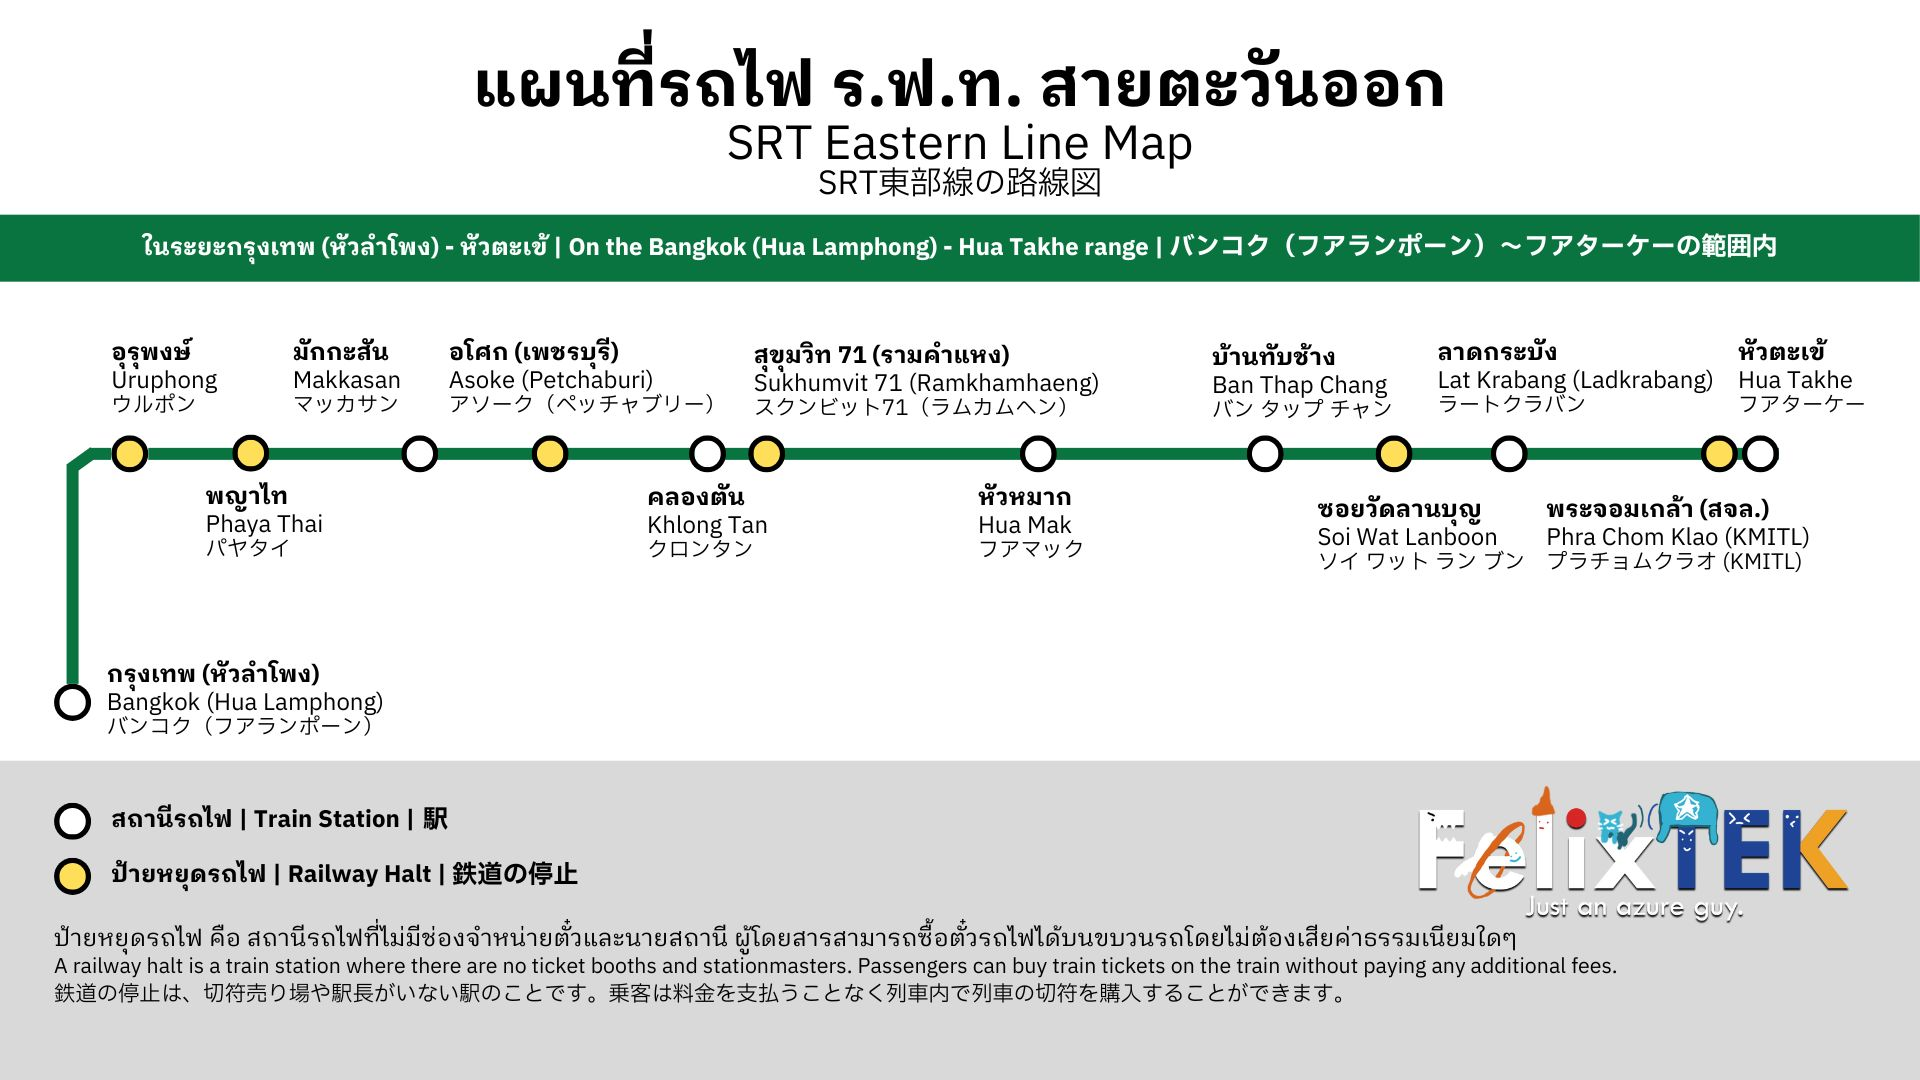
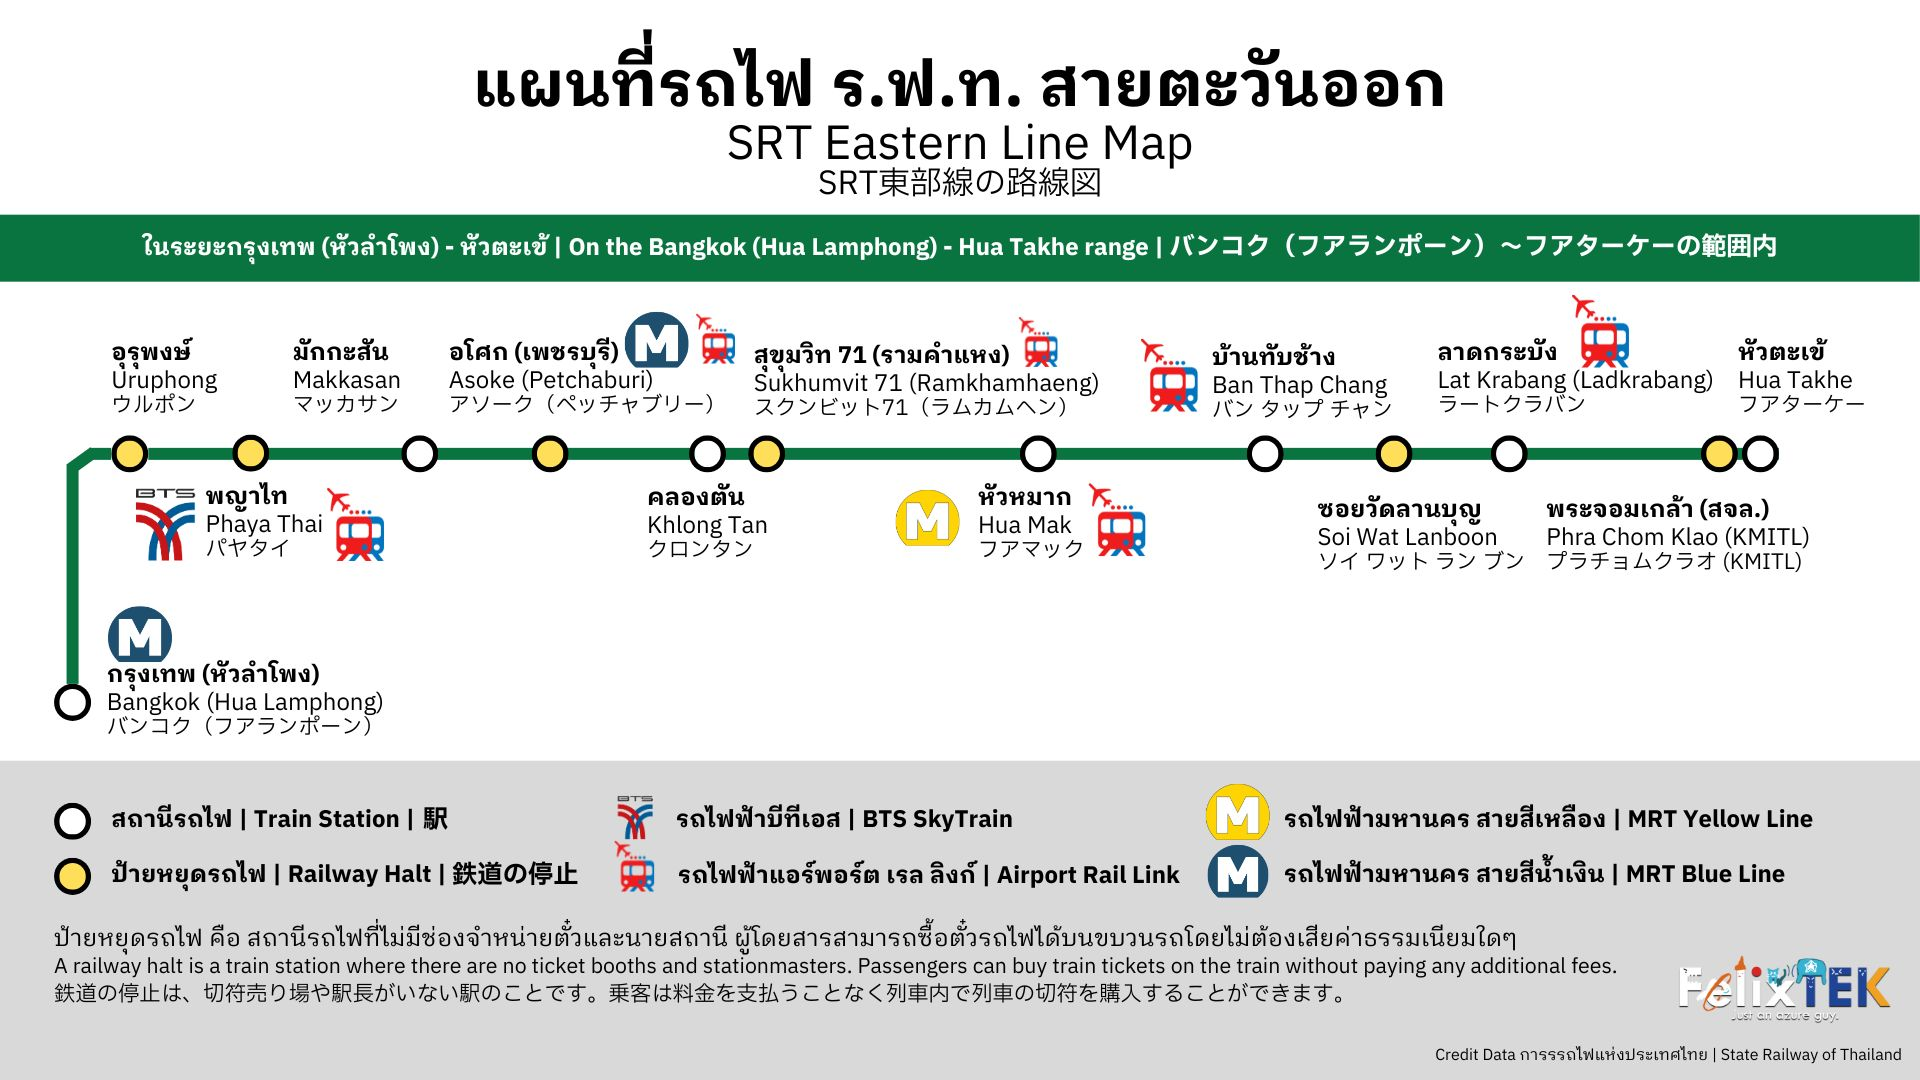
website update

diff --git a/train.html b/train.html
@@ -15,13 +15,16 @@
         <!--NavbarNEW-->
         <nav class="navbar navbar-expand-md bg-dark sticky-top border-bottom" data-bs-theme="dark">
           <div class="container">
-            <a class="navbar-brand d-md-none" href="#">
-                <ul class="navbar-nav flex-grow-1 justify-content-between">
-                  <li class="nav-item"><a href="index.html" class="nav-link active" aria-current="page">Home</a></li>
-                  <li class="nav-item"><a href="train.html" class="nav-link">Train Images</a></li>
-                  <li class="nav-item"><a href="about.html" class="nav-link">About</a></li>
-                </ul>
-              </div>
+            <a href="index.html" class="navbar-brand d-flex align-items-center">
+              <img src="./img/circletek.png" height="48">
+              <strong>TEKSite</strong>
+            </a>
+            <div class="collapse navbar-collapse" id="navbarNav">
+              <ul class="navbar-nav ms-auto">
+                <li class="nav-item"><a href="index.html" class="nav-link active" aria-current="page">Home</a></li>
+                <li class="nav-item"><a href="train.html" class="nav-link">Train Images</a></li>
+                <li class="nav-item"><a href="about.html" class="nav-link">About</a></li>
+              </ul>
             </div>
           </div>
         </nav>
@@ -31,15 +34,14 @@
   	    <div class="px-5 py-5 my-5 text-center">
             <h1 class="display-5 fw-bold text-body-emphasis">Train Images</h1>
             <div class="ocol-lg-6 mx-aut">
-                <div class="col-lg-6 mx-auto">
-                  <p class="lead mb-4" style="align-content: center;">As you may know, I am a lover of rail transport. 
-                    Based in Thailand, I am one of those who prefers using the SRT (State Railway of Thailand)
-                    to travel both intercity and in the metro.<br>
-                    Before further ado, 
-                    I would like to give out a map of commuter rail within Bangkok that the SRT services.
-                  </p>
-                  <img style="align-content: center;"class="d-block mx-auto mb-4" src="./img/trainmap.jpg" alt="" height="640">
-                </div>
+              <div class="container text-center my-5">
+                <p class="lead mb-4">
+                  As you may know, I am a lover of rail transport. Based in Thailand, I am one of those who prefers using the SRT (State Railway of Thailand)
+                  to travel both intercity and in the metro.<br>
+                  Before further ado, I would like to give out a map of commuter rail within Bangkok that the SRT services.
+                </p>
+                <img class="img-fluid d-block mx-auto mb-4" src="./img/trainmap.jpg" alt="Bangkok Commuter Rail Map">
+              </div>
             </div>
         </div>
         <!-- Hero -->
@@ -51,7 +53,7 @@
               <a href="/" class="mb-3 me-2 mb-md-0 text-body-secondary text-decoration-none lh-1">
                 <img class="bi" height="30" src="./img/circletek.png"><use xlink:href="index.html"></use></img>
               </a>
-              <span class="mb-3 mb-md-0 text-body-secondary justify-content-end list-unstyled d-flex">© 2023-2024 FelixTEK. The Login and Signup pages are for testing only and are not operational.</span>
+              <span class="mb-3 mb-md-0 text-body-secondary justify-content-end list-unstyled d-flex">© 2023-2025 FelixTEK. The Login and Signup pages are for testing only and are not operational.</span>
             </div>
             
             <ul class="nav col-md-4 justify-content-end list-unstyled d-flex mx-auto">

diff --git a/404.html b/404.html
@@ -15,13 +15,16 @@
         <!--NavbarNEW-->
         <nav class="navbar navbar-expand-md bg-dark sticky-top border-bottom" data-bs-theme="dark">
           <div class="container">
-            <a class="navbar-brand d-md-none" href="#">
-                <ul class="navbar-nav flex-grow-1 justify-content-between">
-                  <li class="nav-item"><a href="index.html" class="nav-link active" aria-current="page">Home</a></li>
-                  <li class="nav-item"><a href="train.html" class="nav-link">Train Images</a></li>
-                  <li class="nav-item"><a href="about.html" class="nav-link">About</a></li>
-                </ul>
-              </div>
+            <a href="index.html" class="navbar-brand d-flex align-items-center">
+              <img src="./img/circletek.png" height="48">
+              <strong>TEKSite</strong>
+            </a>
+            <div class="collapse navbar-collapse" id="navbarNav">
+              <ul class="navbar-nav ms-auto">
+                <li class="nav-item"><a href="index.html" class="nav-link active" aria-current="page">Home</a></li>
+                <li class="nav-item"><a href="train.html" class="nav-link">Train Images</a></li>
+                <li class="nav-item"><a href="about.html" class="nav-link">About</a></li>
+              </ul>
             </div>
           </div>
         </nav>
@@ -45,7 +48,7 @@
               <a href="/" class="mb-3 me-2 mb-md-0 text-body-secondary text-decoration-none lh-1">
                 <img class="bi" height="30" src="./img/circletek.png"><use xlink:href="index.html"></use></img>
               </a>
-              <span class="mb-3 mb-md-0 text-body-secondary justify-content-end list-unstyled d-flex">© 2023-2024 FelixTEK. The Login and Signup pages are for testing only and are not operational.</span>
+              <span class="mb-3 mb-md-0 text-body-secondary justify-content-end list-unstyled d-flex">© 2023-2025 FelixTEK. The Login and Signup pages are for testing only and are not operational.</span>
             </div>
             
             <ul class="nav col-md-4 justify-content-end list-unstyled d-flex mx-auto">

diff --git a/index.html b/index.html
@@ -15,13 +15,16 @@
         <!--NavbarNEW-->
         <nav class="navbar navbar-expand-md bg-dark sticky-top border-bottom" data-bs-theme="dark">
           <div class="container">
-            <a class="navbar-brand d-md-none" href="#">
-                <ul class="navbar-nav flex-grow-1 justify-content-between">
-                  <li class="nav-item"><a href="index.html" class="nav-link active" aria-current="page">Home</a></li>
-                  <li class="nav-item"><a href="train.html" class="nav-link">Train Images</a></li>
-                  <li class="nav-item"><a href="about.html" class="nav-link">About</a></li>
-                </ul>
-              </div>
+            <a href="index.html" class="navbar-brand d-flex align-items-center">
+              <img src="./img/circletek.png" height="48">
+              <strong>TEKSite</strong>
+            </a>
+            <div class="collapse navbar-collapse" id="navbarNav">
+              <ul class="navbar-nav ms-auto">
+                <li class="nav-item"><a href="index.html" class="nav-link active" aria-current="page">Home</a></li>
+                <li class="nav-item"><a href="train.html" class="nav-link">Train Images</a></li>
+                <li class="nav-item"><a href="about.html" class="nav-link">About</a></li>
+              </ul>
             </div>
           </div>
         </nav>
@@ -48,7 +51,7 @@
               <a href="/" class="mb-3 me-2 mb-md-0 text-body-secondary text-decoration-none lh-1">
                 <img class="bi" height="30" src="./img/circletek.png"><use xlink:href="index.html"></use></img>
               </a>
-              <span class="mb-3 mb-md-0 text-body-secondary justify-content-end list-unstyled d-flex">© 2023-2024 FelixTEK. The Login and Signup pages are for testing only and are not operational.</span>
+              <span class="mb-3 mb-md-0 text-body-secondary justify-content-end list-unstyled d-flex">© 2023-2025 FelixTEK. The Login and Signup pages are for testing only and are not operational.</span>
             </div>
             
             <ul class="nav col-md-4 justify-content-end list-unstyled d-flex mx-auto">
